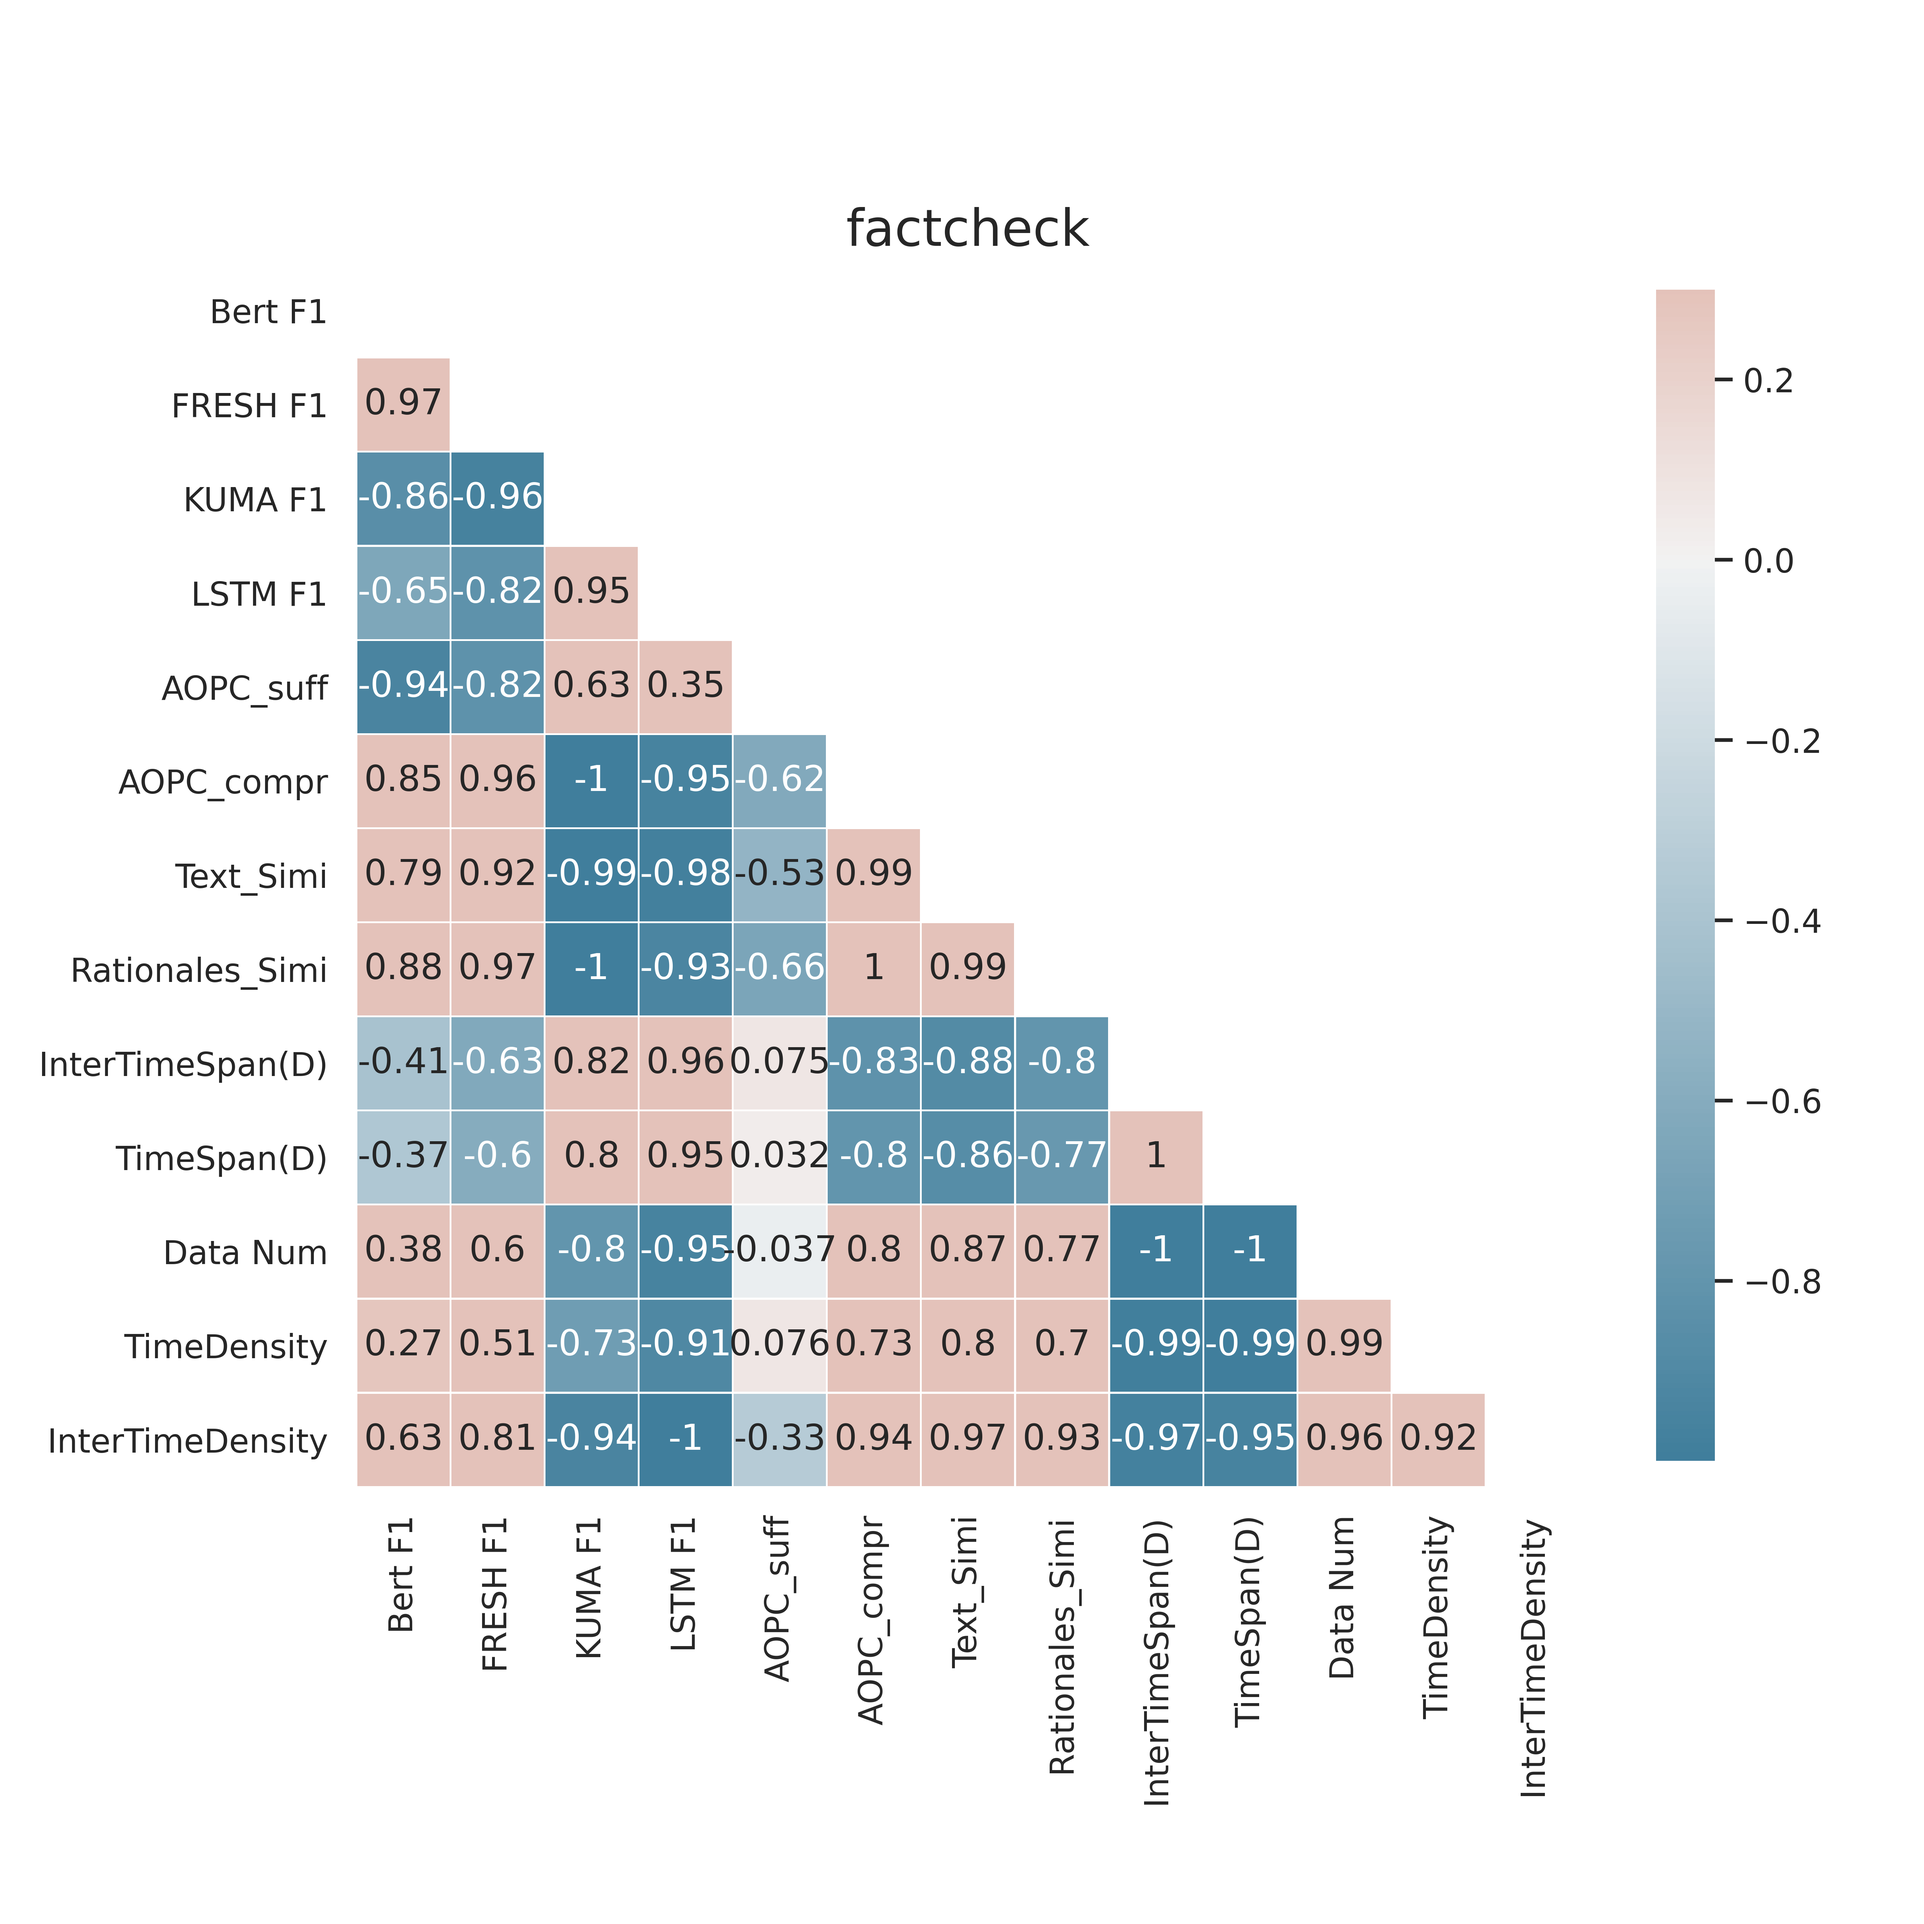
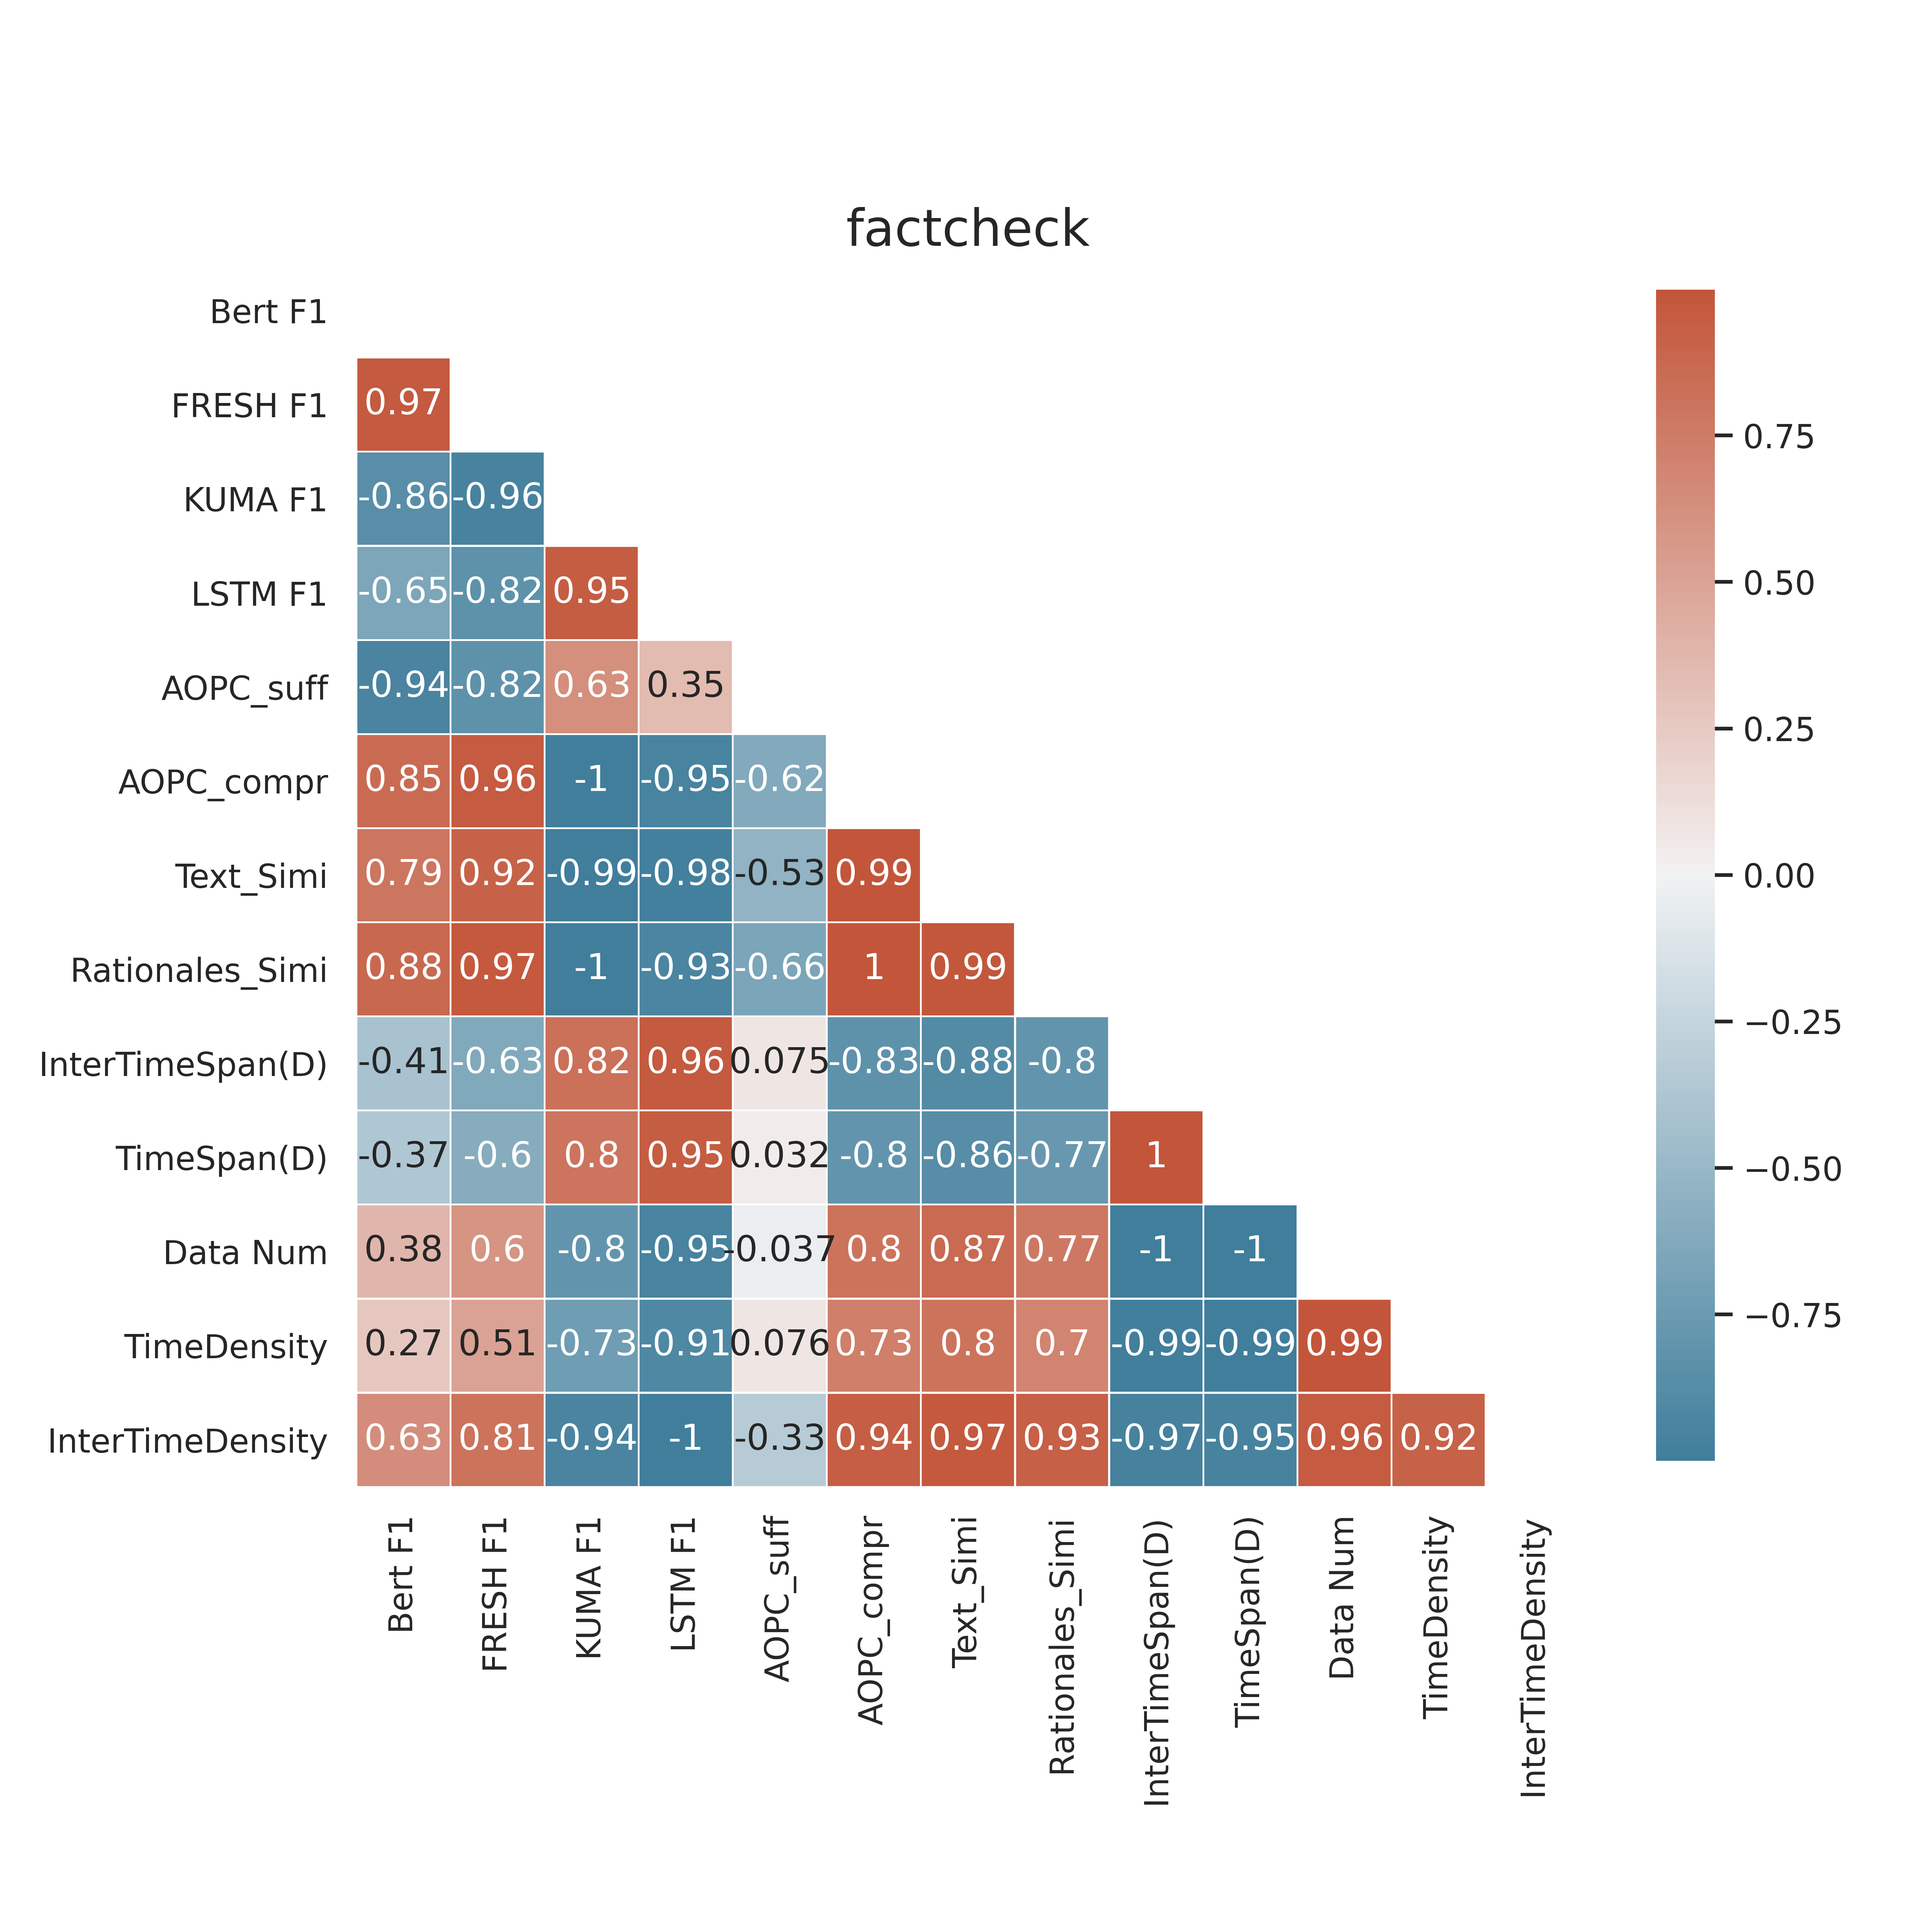
d

diff --git a/saved_everything/post_analysis.py b/saved_everything/post_analysis.py
@@ -152,7 +152,7 @@ for i, task in enumerate(task_list):
     cmap = sns.diverging_palette(230, 20, as_cmap=True)
 
     # Draw the heatmap with the mask and correct aspect ratio
-    sns.heatmap(corr, mask=mask, cmap=cmap, vmax=.3, center=0, annot=True,
+    sns.heatmap(corr, mask=mask, cmap=cmap, center=0, annot=True,
                 square=True, linewidths=.5, cbar_kws={"shrink": .7})
     plt.title(task_name, fontsize=17)
     plt.tight_layout()
